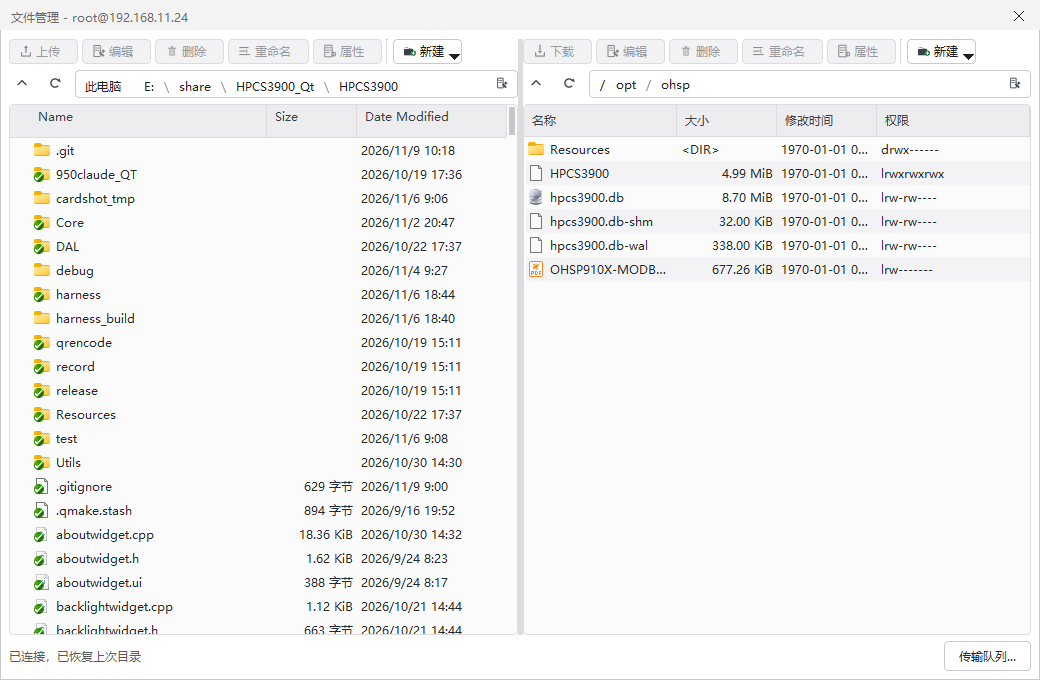
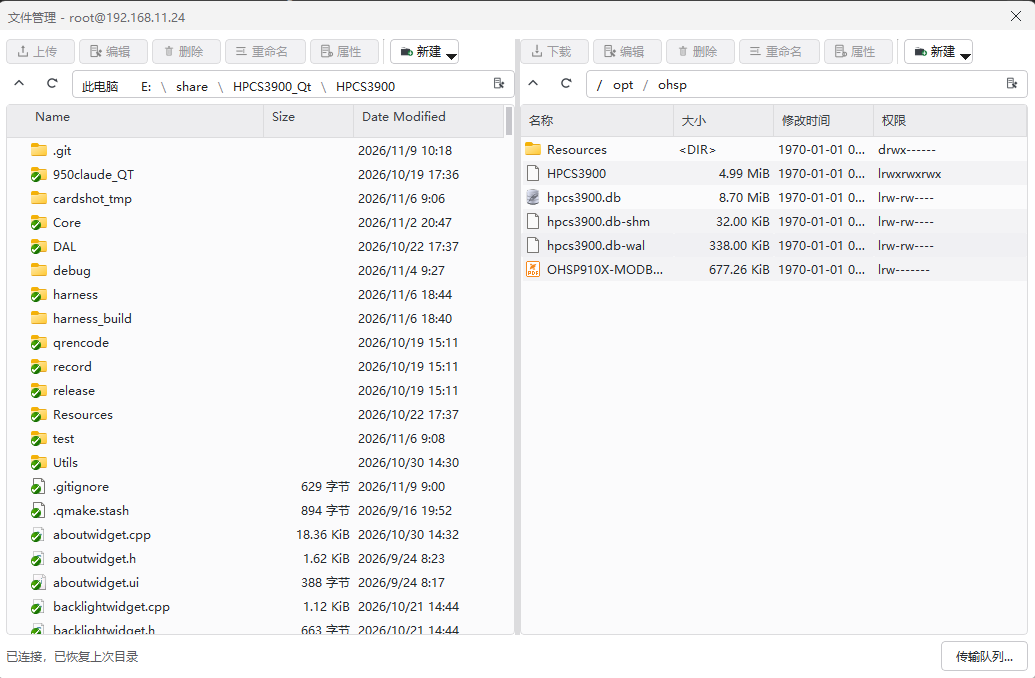
docs(readme): use hand-picked trio of light-theme screenshots

diff --git a/README.md b/README.md
@@ -10,13 +10,9 @@
 
 ## 界面预览
 
-| 主界面（串口终端） | SFTP 文件管理 |
-|---|---|
-| ![主界面](docs/screenshots/main.png) | ![SFTP 文件管理](docs/screenshots/sftp.png) |
-
-| SSH 连接参数 | 字体设置 | 关于 |
+| 主界面（串口终端） | SSH 连接参数 | SFTP 文件管理 |
 |---|---|---|
-| ![SSH 页](docs/screenshots/ssh.png) | ![字体设置](docs/screenshots/font-dialog.png) | ![关于](docs/screenshots/about.png) |
+| ![主界面](docs/screenshots/main.png) | ![SSH 页](docs/screenshots/ssh.png) | ![SFTP 文件管理](docs/screenshots/sftp.png) |
 
 ## 功能亮点
 
